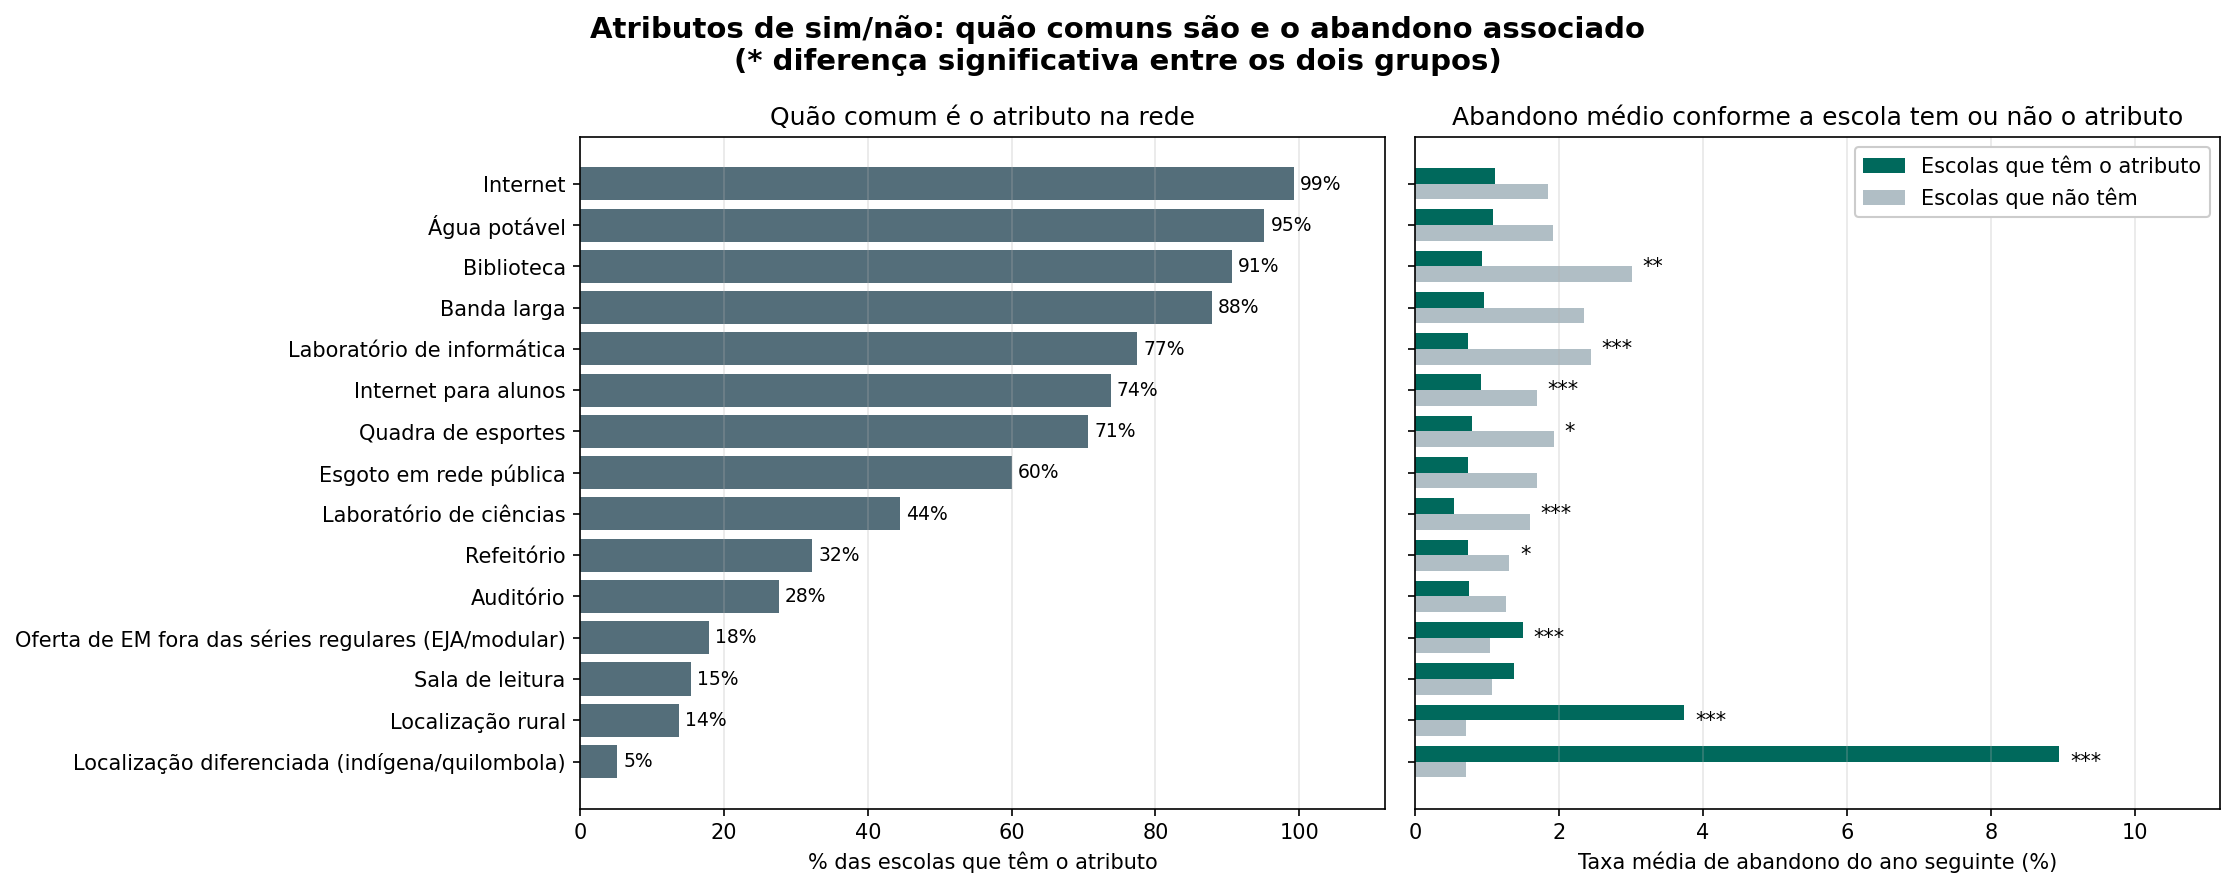
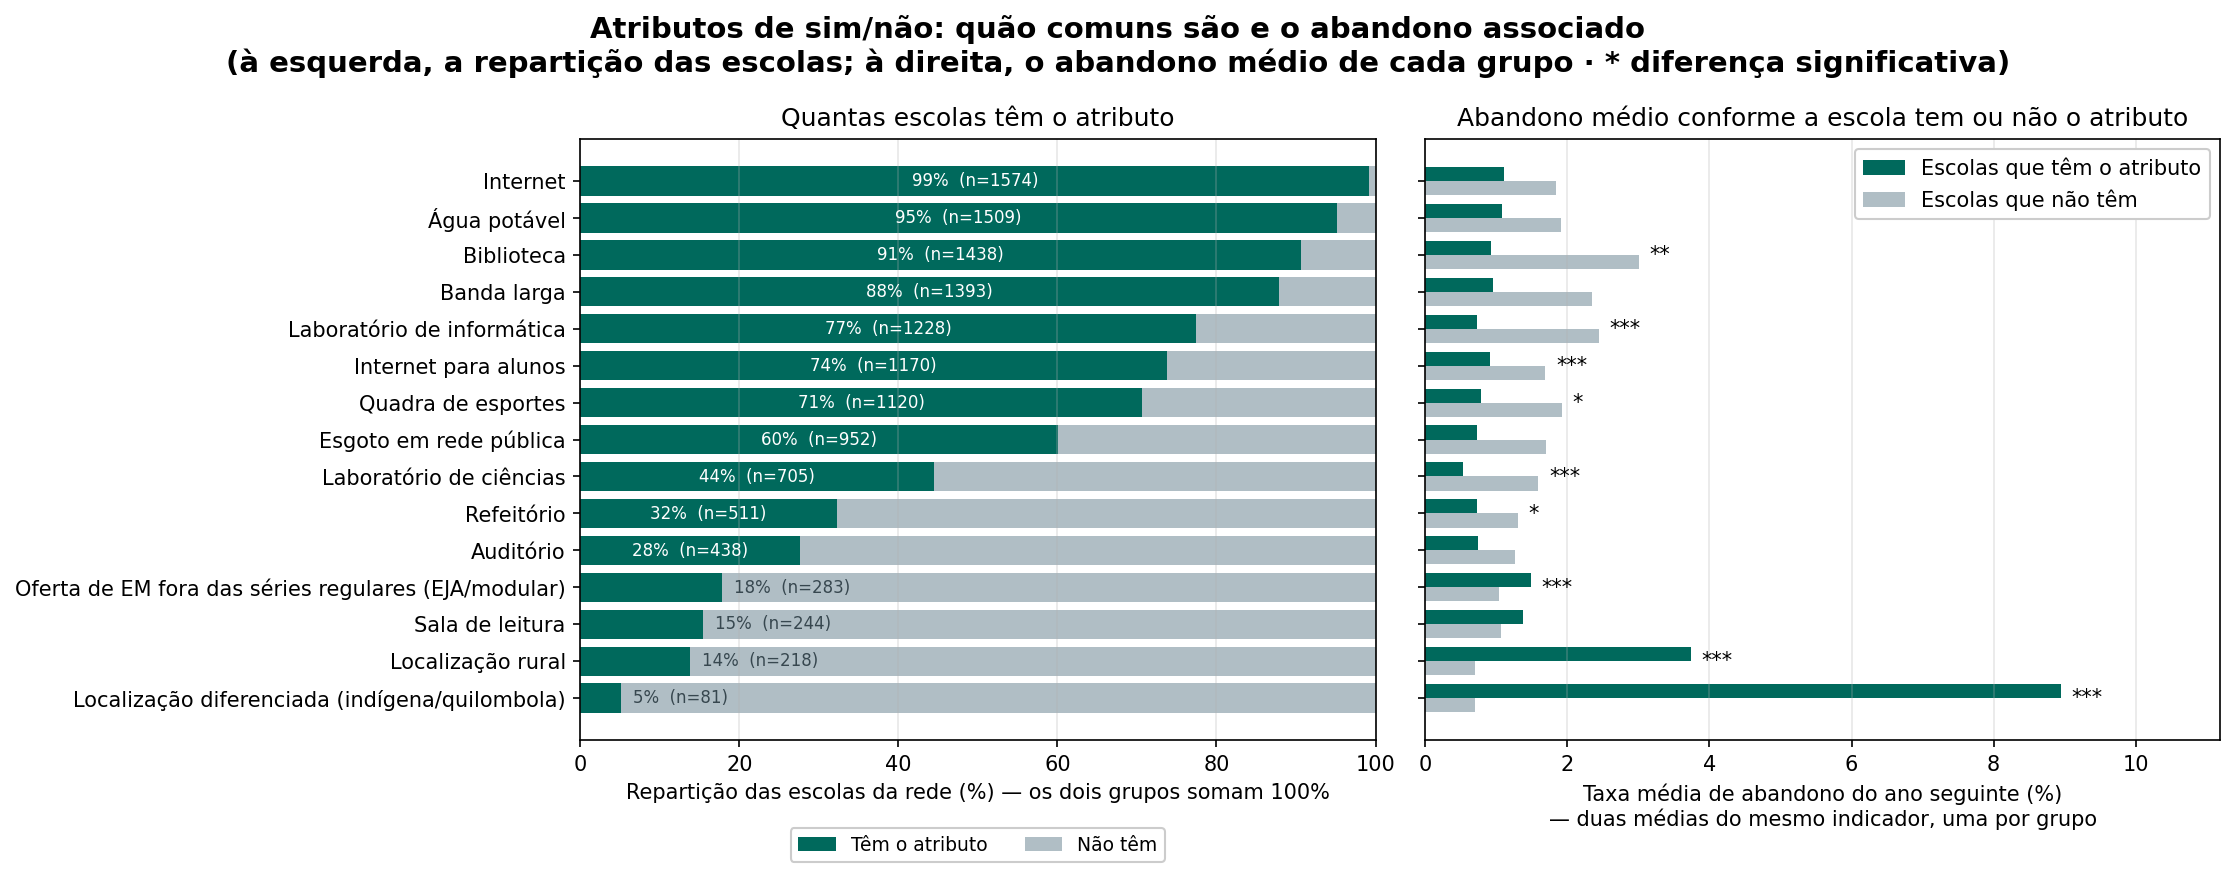
SS12

diff --git a/evasao-escolar/notebooks/13_estatisticas_features.py b/evasao-escolar/notebooks/13_estatisticas_features.py
@@ -86,8 +86,15 @@ def descrever_continuas(df: pd.DataFrame, colunas: list[str]) -> pd.DataFrame:
 
 def descrever_binarias(df: pd.DataFrame, colunas: list[str]) -> pd.DataFrame:
     """
-    Prevalência e efeito das colunas de sim/não: qual o abandono médio das
-    escolas que têm o atributo e das que não têm, e se a diferença se sustenta.
+    Prevalência e efeito das colunas de sim/não.
+
+    Duas grandezas distintas convivem aqui, e confundi-las inverte a leitura
+    da tabela. `n_tem`/`n_nao` (e seus percentuais) repartem as escolas em dois
+    grupos — somam o total da rede. Já `abandono_com`/`abandono_sem` são a
+    média do abandono dentro de cada grupo: duas médias da mesma variável, que
+    não se somam a nada. Por isso as contagens são reportadas junto dos
+    percentuais: sem elas o leitor não vê que atributos quase universais
+    (internet, água potável) deixam um grupo de comparação minúsculo.
     """
     alvo = df[TARGET_COL]
     linhas = []
@@ -104,7 +111,12 @@ def descrever_binarias(df: pd.DataFrame, colunas: list[str]) -> pd.DataFrame:
             "informacao": rotular_feature(coluna),
             "tipo": "binária",
             "n": int(df[coluna].notna().sum()),
+            # Repartição das escolas: n_tem + n_nao = n, prevalencia + pct_nao = 100
+            "n_tem": int(tem.sum()),
+            "n_nao": int((~tem).sum()),
             "prevalencia": tem.mean() * 100,
+            "pct_nao": (~tem).mean() * 100,
+            # Médias do abandono dentro de cada grupo — não se somam
             "abandono_com": com.mean(),
             "abandono_sem": sem.mean(),
             "diferenca": com.mean() - sem.mean(),
@@ -162,11 +174,26 @@ def figura_binarias(resumo: pd.DataFrame) -> None:
     rotulos = list(dados["informacao"])
     fig, (ax1, ax2) = plt.subplots(1, 2, figsize=(15, 6), sharey=True)
 
-    barras = ax1.barh(rotulos, dados["prevalencia"], color=COR_BARRA)
-    ax1.bar_label(barras, fmt="%.0f%%", padding=3, fontsize=9)
-    ax1.set_xlim(0, 112)
-    ax1.set_xlabel("% das escolas que têm o atributo")
-    ax1.set_title("Quão comum é o atributo na rede")
+    # Barra empilhada: torna explícito que os dois grupos repartem a rede e
+    # somam 100% — leitura que a barra simples de prevalência não sustentava.
+    ax1.barh(rotulos, dados["prevalencia"], color=COR_COM, label="Têm o atributo")
+    ax1.barh(rotulos, dados["pct_nao"], left=dados["prevalencia"],
+             color=COR_SEM, label="Não têm")
+    # Barras verdes curtas não comportam o rótulo: nelas o texto vai para fora,
+    # em cor escura sobre o trecho cinza.
+    for pos, (pct, n) in enumerate(zip(dados["prevalencia"], dados["n_tem"])):
+        texto = f"{pct:.0f}%  (n={n})"
+        if pct >= 25:
+            ax1.text(pct / 2, pos, texto, ha="center", va="center",
+                     fontsize=8, color="white")
+        else:
+            ax1.text(pct + 1.5, pos, texto, ha="left", va="center",
+                     fontsize=8, color="#37474F")
+    ax1.set_xlim(0, 100)
+    ax1.set_xlabel("Repartição das escolas da rede (%) — os dois grupos somam 100%")
+    ax1.set_title("Quantas escolas têm o atributo")
+    ax1.legend(loc="upper center", bbox_to_anchor=(0.5, -0.13), ncol=2,
+               framealpha=1.0, fontsize=9)
     ax1.grid(axis="x", alpha=0.3)
 
     posicoes = np.arange(len(dados))
@@ -181,13 +208,15 @@ def figura_binarias(resumo: pd.DataFrame) -> None:
             ax2.text(maior + 0.15, posicao, marca, fontsize=10, va="center")
     ax2.set_yticks(posicoes, rotulos)
     ax2.set_xlim(0, maiores.max() * 1.25)
-    ax2.set_xlabel("Taxa média de abandono do ano seguinte (%)")
+    ax2.set_xlabel("Taxa média de abandono do ano seguinte (%)\n"
+                   "— duas médias do mesmo indicador, uma por grupo")
     ax2.set_title("Abandono médio conforme a escola tem ou não o atributo")
     ax2.legend(loc="upper right", framealpha=1.0)
     ax2.grid(axis="x", alpha=0.3)
 
     fig.suptitle("Atributos de sim/não: quão comuns são e o abandono associado\n"
-                 "(* diferença significativa entre os dois grupos)",
+                 "(à esquerda, a repartição das escolas; à direita, o abandono "
+                 "médio de cada grupo · * diferença significativa)",
                  fontsize=14, fontweight="bold")
     fig.tight_layout()
     salvar_figura(fig, "E6_binarias.png")

diff --git a/evasao-escolar/tests/test_estatisticas_binarias.py b/evasao-escolar/tests/test_estatisticas_binarias.py
@@ -1,0 +1,93 @@
+"""
+Testes para a descrição dos atributos de sim/não (notebooks/13_estatisticas_features.py).
+
+O Quadro 6 da monografia cruza duas grandezas que se parecem e não são a mesma
+coisa: a **repartição das escolas** entre quem tem e quem não tem o atributo
+(que soma o total da rede) e a **média do abandono dentro de cada grupo** (duas
+médias do mesmo indicador, que não somam nada). Confundi-las inverte a leitura
+da tabela — foi o que a revisão da banca apontou.
+
+Estes testes travam a invariante: as contagens repartem a rede, as médias não.
+
+Rodar com:
+    pytest tests/test_estatisticas_binarias.py -v
+"""
+
+import importlib.util
+import sys
+from pathlib import Path
+
+import pandas as pd
+import pytest
+
+_NOTEBOOKS = Path(__file__).resolve().parents[1] / "notebooks"
+
+
+@pytest.fixture(scope="module")
+def modulo():
+    """Carrega o notebook-script, cujo nome começa com dígito (não importável)."""
+    sys.path.insert(0, str(_NOTEBOOKS))
+    spec = importlib.util.spec_from_file_location(
+        "estatisticas_features", _NOTEBOOKS / "13_estatisticas_features.py"
+    )
+    mod = importlib.util.module_from_spec(spec)
+    spec.loader.exec_module(mod)
+    return mod
+
+
+@pytest.fixture
+def df_binario(modulo):
+    """Seis escolas, dois atributos: um comum e um raro."""
+    return pd.DataFrame({
+        "tem_biblioteca": [1, 1, 1, 1, 0, 0],
+        "is_rural":       [1, 0, 0, 0, 0, 0],
+        modulo.TARGET_COL: [4.0, 0.0, 2.0, 0.0, 6.0, 8.0],
+    })
+
+
+def test_contagens_repartem_a_rede(modulo, df_binario):
+    """n_tem + n_nao devolve o total — é a coluna que soma 100%."""
+    resumo = modulo.descrever_binarias(df_binario, ["tem_biblioteca", "is_rural"])
+    for _, linha in resumo.iterrows():
+        assert linha["n_tem"] + linha["n_nao"] == len(df_binario)
+        assert linha["prevalencia"] + linha["pct_nao"] == pytest.approx(100.0)
+
+
+def test_medias_de_abandono_nao_somam_cem(modulo, df_binario):
+    """
+    As duas colunas de abandono são médias de grupo, não uma partição.
+    Se alguém as reescrever como percentuais complementares, isto quebra.
+    """
+    resumo = modulo.descrever_binarias(df_binario, ["tem_biblioteca"])
+    linha = resumo.iloc[0]
+    # Escolas com biblioteca: 4, 0, 2, 0 → média 1,5 | sem: 6, 8 → média 7,0
+    assert linha["abandono_com"] == pytest.approx(1.5)
+    assert linha["abandono_sem"] == pytest.approx(7.0)
+    assert linha["diferenca"] == pytest.approx(-5.5)
+
+
+def test_contagens_batem_com_os_percentuais(modulo, df_binario):
+    resumo = modulo.descrever_binarias(df_binario, ["is_rural"])
+    linha = resumo.iloc[0]
+    assert linha["n_tem"] == 1
+    assert linha["n_nao"] == 5
+    assert linha["prevalencia"] == pytest.approx(100 / 6)
+
+
+def test_quadro6_publicado_mantem_a_invariante():
+    """O CSV que alimenta o Quadro 6 precisa carregar as contagens corretas."""
+    from src.data import config
+
+    caminho = config.ROOT_DIR / "reports" / "estatisticas_features.csv"
+    if not caminho.exists():
+        pytest.skip("estatisticas_features.csv ausente — rode o notebook 13")
+
+    dados = pd.read_csv(caminho)
+    binarias = dados[dados["tipo"] == "binária"]
+    if "n_tem" not in binarias.columns:
+        pytest.skip("CSV gerado antes da inclusão das contagens")
+
+    assert not binarias.empty
+    total = binarias["n"].iloc[0]
+    assert (binarias["n_tem"] + binarias["n_nao"] == total).all()
+    assert (binarias["prevalencia"] + binarias["pct_nao"]).round(6).eq(100.0).all()

diff --git a/SS12_TEXTO_PARA_O_TCC.md b/SS12_TEXTO_PARA_O_TCC.md
@@ -1,0 +1,135 @@
+# SS12 — Texto e números para inserir no Capítulo 6
+
+**Comentário:** *"a coluna abandono tem e abandono nao tem — devem somar 100% para
+fazer sentido essa tabela"* (Quadro 6, p. 36).
+
+Resultado da auditoria e da correção implementada. A inserção no `.docx` fica para a
+**Fase 4** (redação), que reescreve essa seção por inteiro.
+
+---
+
+## 1. Diagnóstico
+
+O orientador está certo sobre o efeito, e a causa é de apresentação, não de cálculo.
+
+O Quadro 6 tem hoje quatro colunas de números, e elas misturam **duas grandezas
+diferentes** sem sinalizar isso:
+
+| Coluna | O que é | Soma 100%? |
+|---|---|---|
+| % das escolas que têm | reparte a rede em dois grupos | **sim** — falta a metade complementar |
+| Abandono médio — têm | média do abandono dentro de um grupo | não |
+| Abandono médio — não têm | média do abandono dentro do outro grupo | não |
+| Diferença (p.p.) | subtração das duas médias | não se aplica |
+
+As duas colunas de abandono são **médias de uma variável contínua** em subgrupos
+distintos — duas leituras do mesmo termômetro, não fatias de um bolo. Somadas, dão
+entre 2,01 e 9,65 conforme a linha, e não há razão para que dessem outra coisa.
+
+A coluna que de fato reparte a rede é a primeira, mas ela aparece sozinha: mostra-se
+"90,7% têm biblioteca" e nunca "9,3% não têm". Lendo os três números em sequência —
+`90,7% | 0,93% | 3,01%` — a interpretação natural é que os três se referem a
+proporções de escolas. Daí a leitura de que deveriam fechar em 100.
+
+Dois agravantes:
+
+- **Ausência das contagens.** Sem o `n`, não dá para ver que a média de 1,84% da coluna
+  "não têm" na linha *Internet* repousa sobre **12 escolas**. O texto que antecede a
+  tabela já alerta para isso ("praticamente não existe grupo de comparação"), mas a
+  tabela não dá ao leitor como confirmar.
+- **Quebra de linha nos cabeçalhos.** No PDF os títulos saem partidos — "Abandon o
+  médio — têm", "Difer ença (p.p.)" —, o que dificulta ainda mais associar cada número
+  à sua grandeza. É largura de coluna no Word, e precisa ser ajustada.
+
+## 2. Correção proposta na tabela
+
+Repartir os cabeçalhos em dois blocos, explicitar o grupo complementar e trazer as
+contagens. Assim a soma 100% fica visível onde ela existe, e a ausência dela nas médias
+deixa de surpreender.
+
+**Quadro 6 — Repartição das escolas por atributo de sim ou não e abandono médio de cada grupo**
+
+| Atributo | Escolas que têm | Escolas que não têm | Abandono médio se tem (%) | Abandono médio se não tem (%) | Diferença (p.p.) |
+|---|---|---|---|---|---|
+| Localização diferenciada (indígena/quilombola) | 81 (5,1%) | 1.505 (94,9%) | 8,95 | 0,70 | 8,25\*\*\* |
+| Localização rural | 218 (13,7%) | 1.368 (86,3%) | 3,74 | 0,70 | 3,04\*\*\* |
+| Biblioteca | 1.438 (90,7%) | 148 (9,3%) | 0,93 | 3,01 | −2,08\*\* |
+| Laboratório de informática | 1.228 (77,4%) | 358 (22,6%) | 0,74 | 2,44 | −1,71\*\*\* |
+| Banda larga | 1.393 (87,8%) | 193 (12,2%) | 0,95 | 2,34 | −1,39 |
+| Quadra de esportes | 1.120 (70,6%) | 466 (29,4%) | 0,79 | 1,93 | −1,14\* |
+| Laboratório de ciências | 705 (44,5%) | 881 (55,5%) | 0,53 | 1,59 | −1,06\*\*\* |
+| Esgoto em rede pública | 952 (60,0%) | 634 (40,0%) | 0,74 | 1,70 | −0,96 |
+| Água potável | 1.509 (95,1%) | 77 (4,9%) | 1,08 | 1,91 | −0,83 |
+| Internet para alunos | 1.170 (73,8%) | 416 (26,2%) | 0,92 | 1,69 | −0,77\*\*\* |
+| Internet | 1.574 (99,2%) | 12 (0,8%) | 1,12 | 1,84 | −0,73 |
+| Refeitório | 511 (32,2%) | 1.075 (67,8%) | 0,73 | 1,31 | −0,58\* |
+| Auditório | 438 (27,6%) | 1.148 (72,4%) | 0,75 | 1,26 | −0,52 |
+| Oferta de EM fora das séries regulares (EJA/modular) | 283 (17,8%) | 1.303 (82,2%) | 1,49 | 1,04 | 0,45\*\*\* |
+| Sala de leitura | 244 (15,4%) | 1.342 (84,6%) | 1,38 | 1,07 | 0,30 |
+
+*Fonte: elaborado pelo autor.*
+
+> A linha "Oferta de EM fora das séries regulares" vem do **SS8** — ver
+> `SS8_TEXTO_PARA_O_TCC.md`. Todas as linhas somam 1.586 observações.
+
+**Formatação no Word:** aumentar a largura das colunas 2 a 6 e reduzir o corpo da fonte
+do cabeçalho, de modo que nenhum título quebre no meio de uma palavra.
+
+## 3. Parágrafo explicativo, imediatamente antes do Quadro 6
+
+Cobre o SS12 e serve também ao **SS10**, que pede explicação das colunas antes da
+tabela aparecer.
+
+> O Quadro 6 reúne duas leituras distintas de cada atributo, e vale distingui-las. As
+> duas primeiras colunas repartem as 1.586 observações em dois grupos — as escolas que
+> têm o atributo e as que não têm — e por isso se completam: somadas, dão o total da
+> rede. As duas colunas seguintes são de outra natureza: cada uma traz a taxa média de
+> abandono no ano seguinte **dentro** de um desses grupos. São duas médias do mesmo
+> indicador, medidas em conjuntos diferentes de escolas, e não há razão para que se
+> somem a 100% — o que interessa nelas é a distância entre uma e outra, registrada na
+> última coluna. As contagens aparecem ao lado dos percentuais porque a comparação só
+> se sustenta quando os dois grupos têm tamanho suficiente: em *Internet*, por exemplo,
+> a média de quem não tem o atributo apoia-se em apenas 12 escolas.
+
+## 4. Frase de ressalva, logo após o Quadro 6
+
+Substitui e amplia o trecho atual sobre atributos quase universais:
+
+> Atributos presentes em quase toda a rede não separam grupos porque não sobra
+> comparação: internet está em 99,2% das escolas e água potável em 95,1%, restando 12 e
+> 77 escolas do outro lado. As diferenças que essas linhas exibem não são
+> estatisticamente distinguíveis do acaso, e não devem ser lidas como efeito do
+> atributo.
+
+## 5. Figura 9 — mesma correção
+
+A figura tinha a mesma ambiguidade: o painel esquerdo mostrava só a fatia "têm". Foi
+regenerada com **barra empilhada**, em que os dois grupos preenchem 100% da largura e
+as contagens aparecem sobre as barras. O eixo passa a dizer, explicitamente,
+"os dois grupos somam 100%"; o painel direito passa a dizer que traz "duas médias do
+mesmo indicador, uma por grupo".
+
+Arquivo regenerado: `reports/figuras/E6_binarias.png`.
+
+Legenda sugerida:
+
+> Figura 9 – Repartição das escolas por atributo de sim ou não (à esquerda) e taxa média
+> de abandono de cada grupo (à direita)
+
+## 6. O que mudou no código
+
+| Arquivo | Mudança |
+|---|---|
+| `notebooks/13_estatisticas_features.py` | `descrever_binarias()` passa a devolver `n_tem`, `n_nao` e `pct_nao`, com docstring explicando por que as duas grandezas não se misturam |
+| `notebooks/13_estatisticas_features.py` | `figura_binarias()` — painel esquerdo vira barra empilhada 100% com contagens; rótulos de eixo e título revisados |
+| `tests/test_estatisticas_binarias.py` | 4 testes novos: travam `n_tem + n_nao = n` e `prevalencia + pct_nao = 100`, e verificam que as médias de abandono **não** são complementares |
+| `reports/estatisticas_features.csv` | regenerado com as colunas novas |
+
+Suíte: **108 testes passam** (eram 104 após o SS8).
+
+## 7. Nenhum número anterior estava errado
+
+Todos os valores já publicados no Quadro 6 foram conferidos contra o pipeline e
+**permanecem idênticos**. O que muda é o que a tabela deixa o leitor ver: a repartição
+completa, as contagens por trás de cada média, e a separação explícita entre o que soma
+100% e o que não soma.

diff --git a/COMENTARIOS_ORIENTADOR.md b/COMENTARIOS_ORIENTADOR.md
@@ -39,7 +39,7 @@ Extraídos em 22/07/2026. Todos os 13 comentários estão no **Capítulo 6 — T
 
 - [x] **SS8** — ~~Auditar a coluna "Reprovação no ano anterior (EM)" no Quadro 5.~~ **Concluído.** Os números estavam corretos; o defeito era a incoerência entre a linha do EM e as das séries (o total do INEP inclui 4ª série e não seriado). Implementado o atributo `oferta_em_nao_seriado` no pipeline + testes. Texto e números para o documento em `SS8_TEXTO_PARA_O_TCC.md`.
   - ⚠ Achado colateral: o Quadro 8 **não é reprodutível** no ambiente atual — a partição da CV mudou por versão de biblioteca, não pela correção. Resolver junto com o SS13 (Fase 3). Detalhes no mesmo arquivo.
-- [ ] **SS12** — Reinterpretar o Quadro 6. O comentário revela que a tabela não está sendo lida como pretendido: "% das escolas que têm" e as duas colunas de abandono médio são grandezas distintas, e ele leu como se devessem somar 100%. Ou o rótulo muda, ou a estrutura muda.
+- [x] **SS12** — ~~Reinterpretar o Quadro 6.~~ **Concluído.** Nenhum número estava errado; o defeito era a tabela misturar duas grandezas (repartição das escolas × médias de grupo) sem sinalizar. Adicionadas contagens e a coluna complementar, Figura 9 regenerada como barra empilhada 100%, + 4 testes. Texto em `SS12_TEXTO_PARA_O_TCC.md`.
 - [ ] **SS1** — Documentar a queda de 2.392 → 1.586 registros (perda do último ano pelo casamento temporal + escolas sem par ano/ano+1), com o número exato de cada exclusão.
 
 ### Fase 2 — Terminologia
